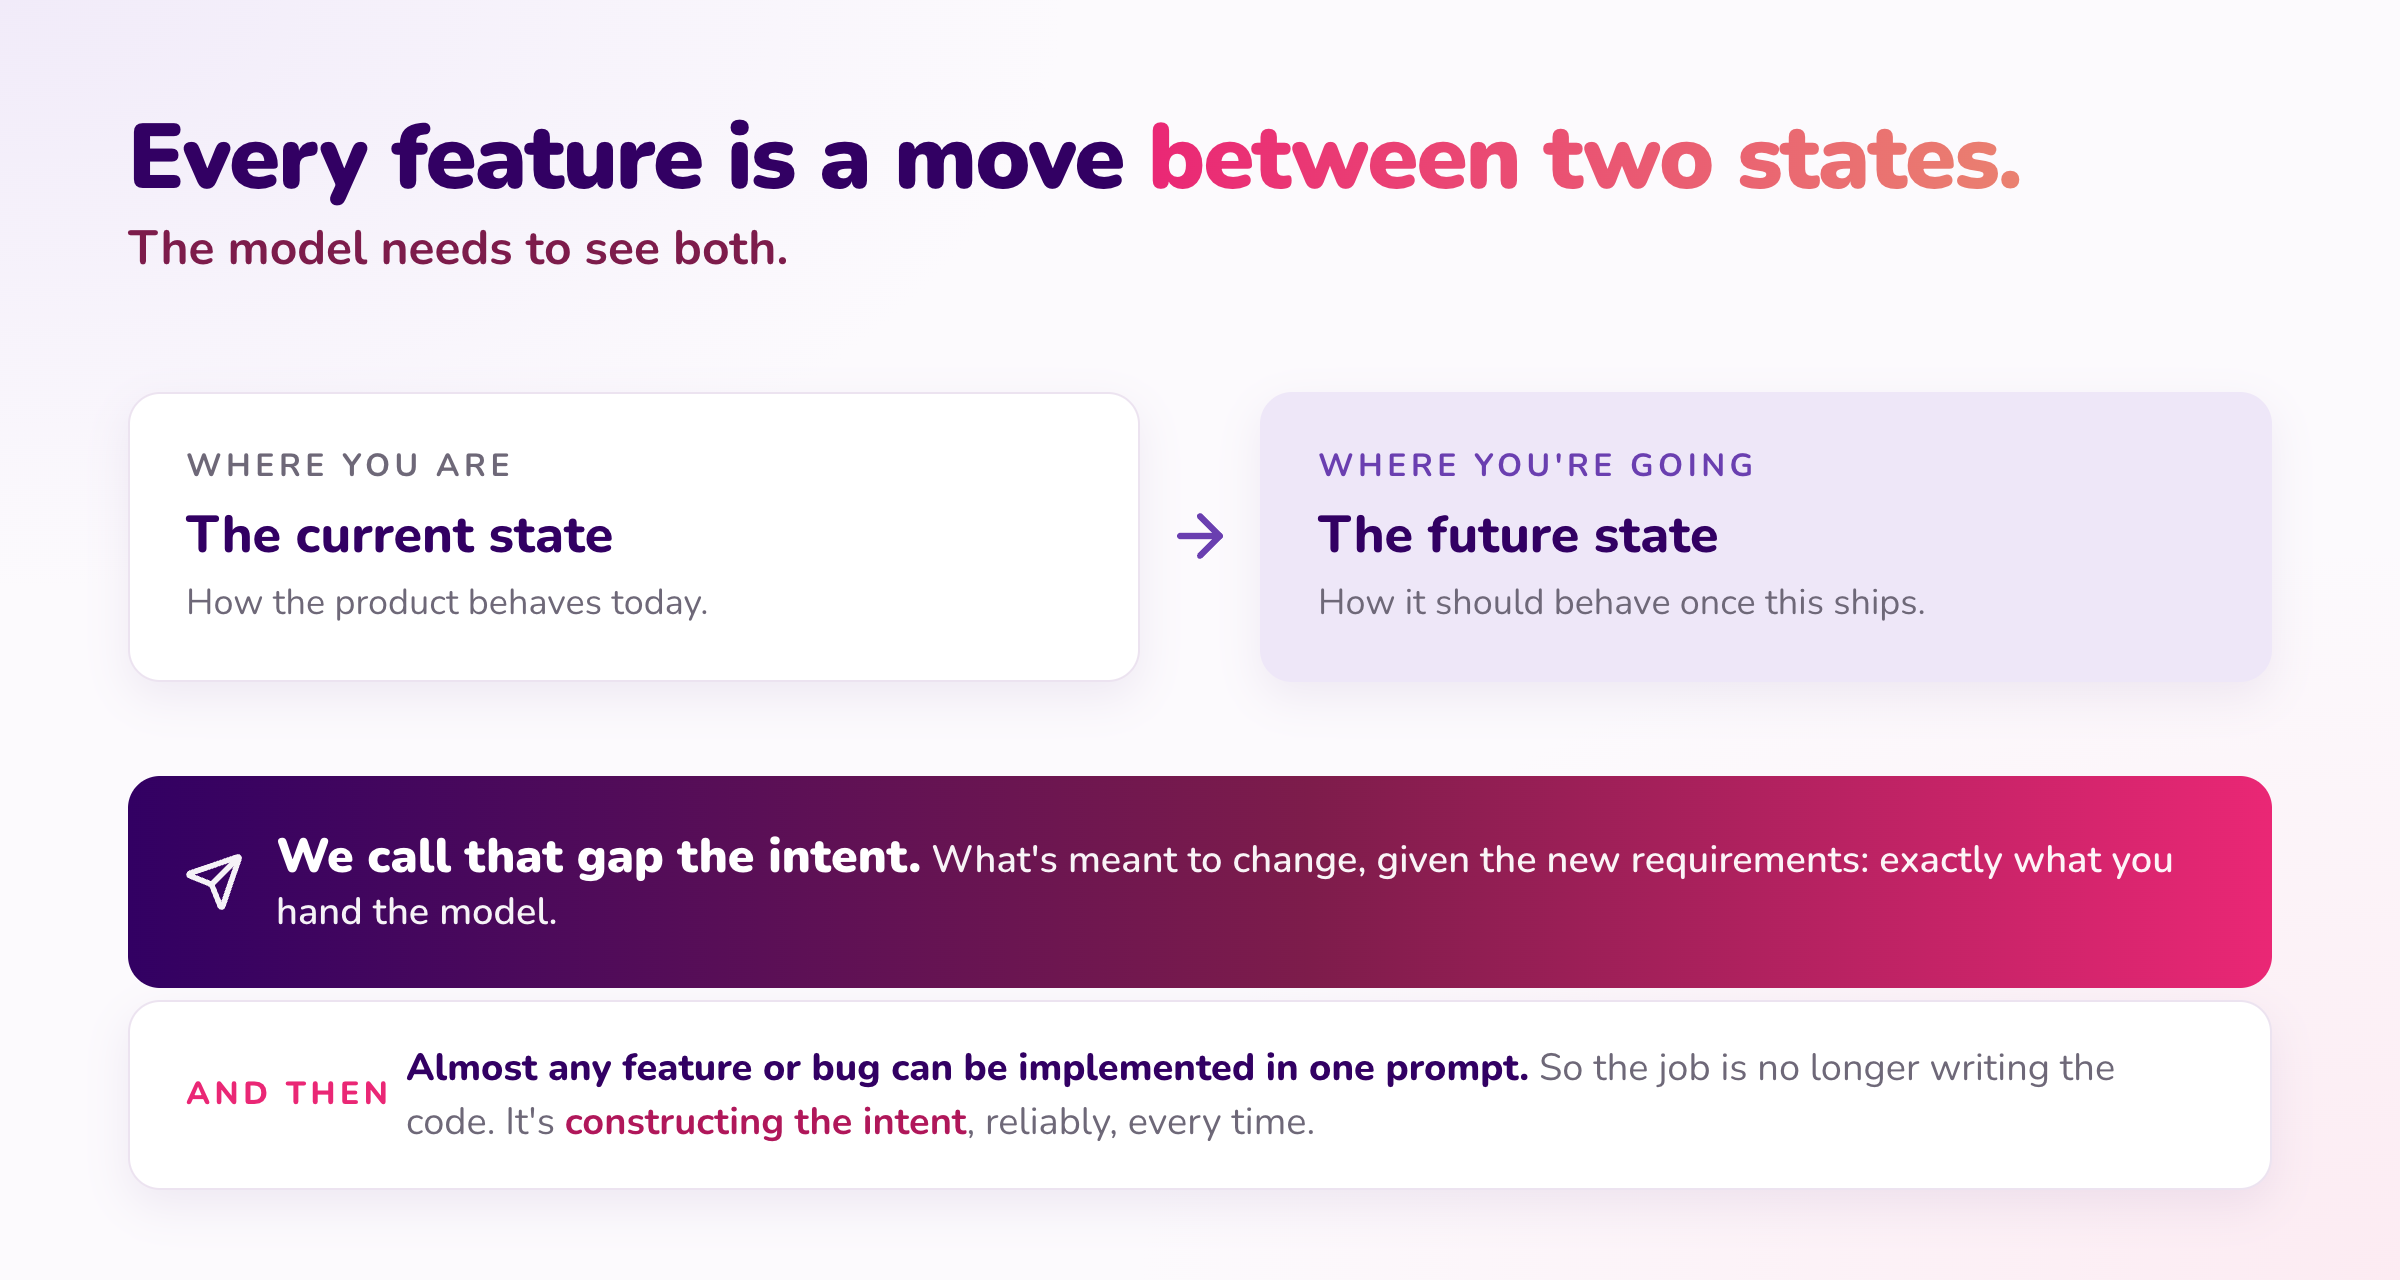
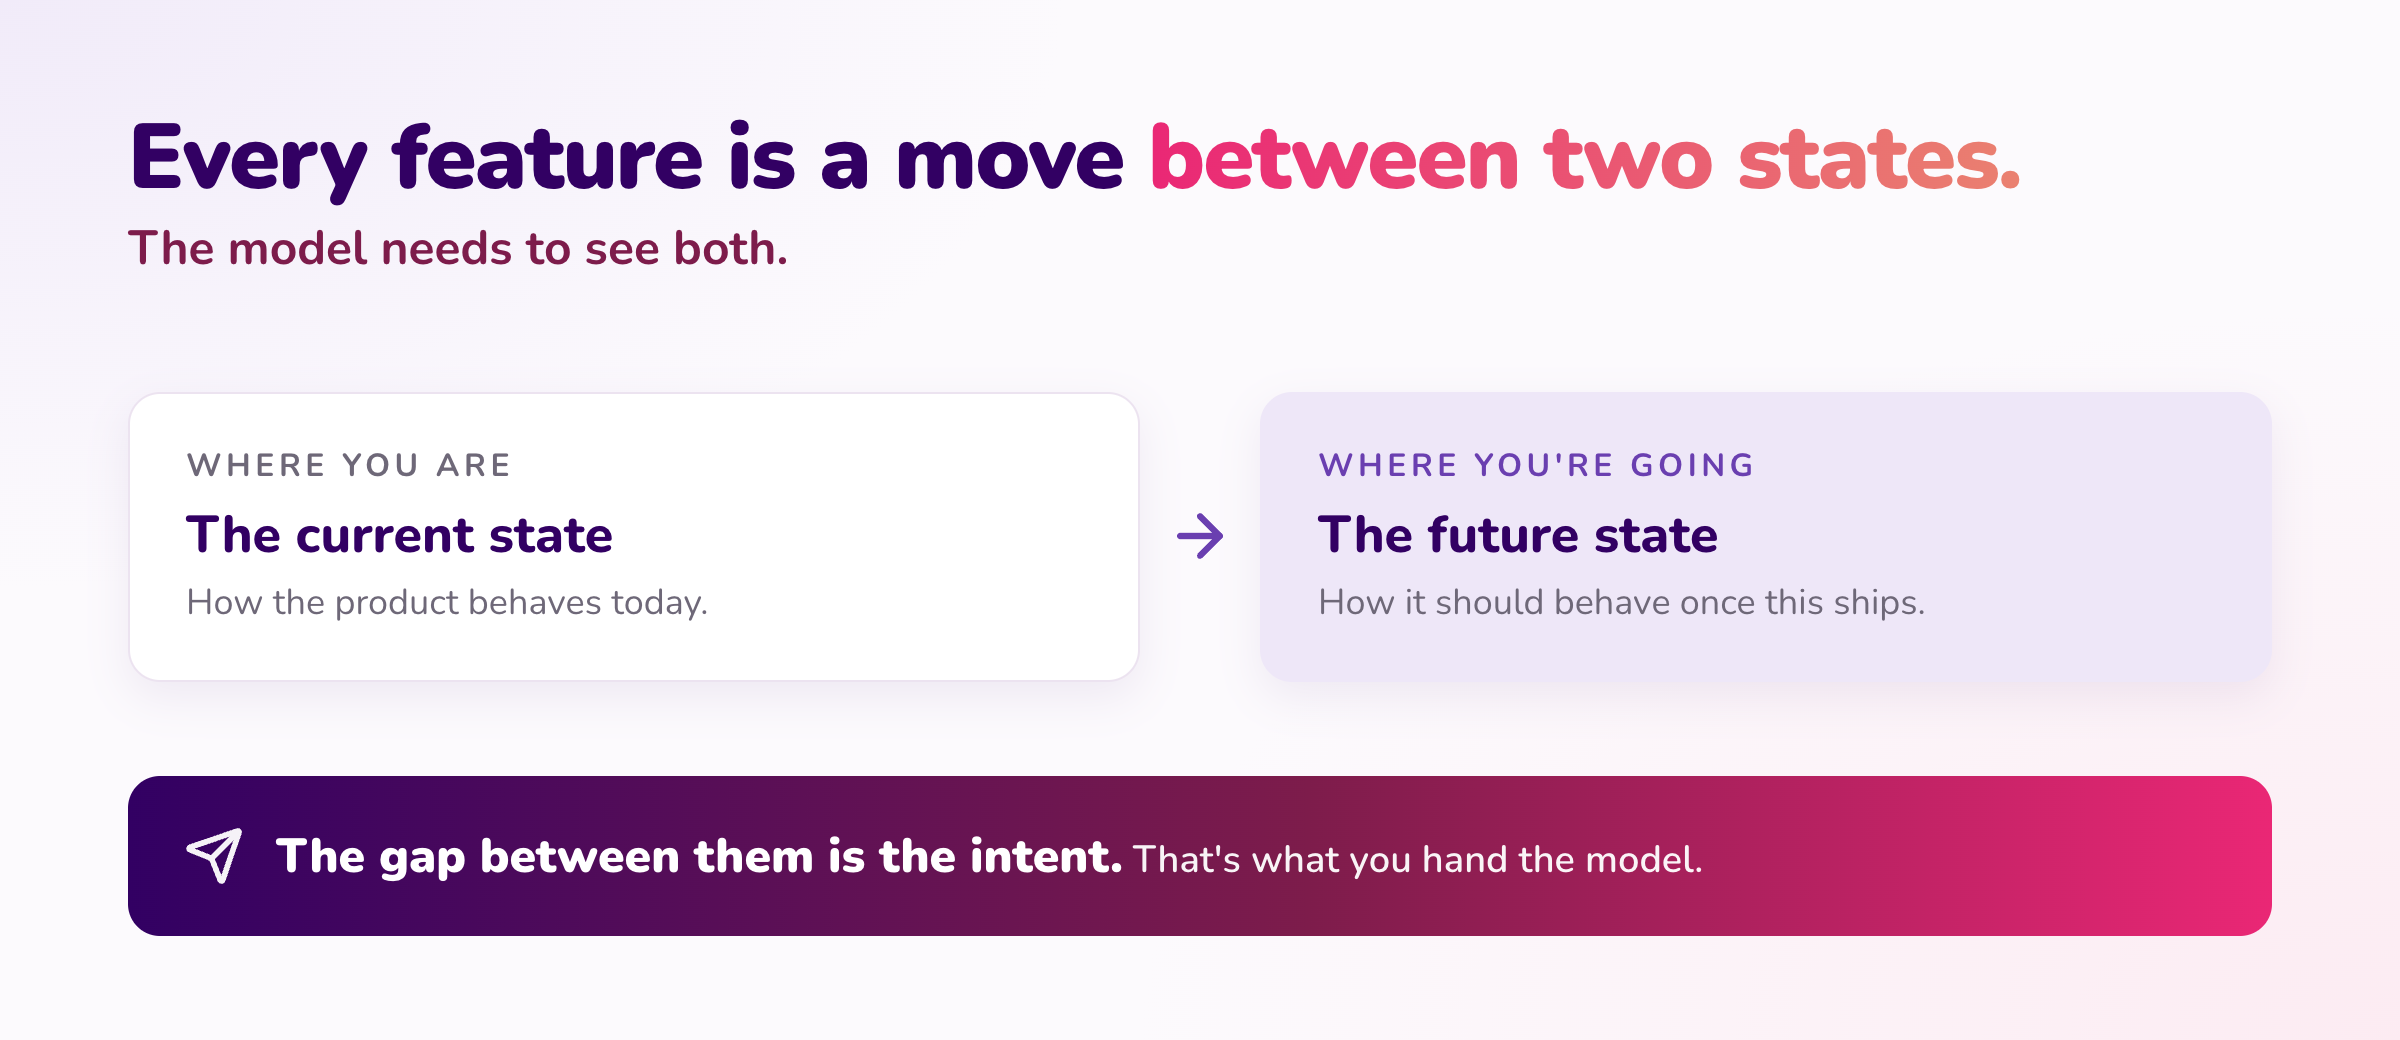
docs: lighter current/future-state diagram, point moved into text

Changed region(s): [[0.0312, 0.3385, 0.9688, 0.9231], [0.0312, 0.0923, 0.8438, 0.2769], [0.5312, 0.3385, 0.7188, 0.3692]]

diff --git a/image-src/ai-first-sdlc/current-future-state.html b/image-src/ai-first-sdlc/current-future-state.html
@@ -15,7 +15,7 @@
 .then p{font-size:19px;color:var(--muted);line-height:1.4}
 .then p b{color:var(--title);font-weight:800}
 .then p em{font-style:normal;color:var(--accent-deep);font-weight:700}
-</style></head><body data-size="1200x640"><div class="frame">
+</style></head><body data-size="1200x520"><div class="frame">
 <div class="title">Every feature is a move <span class="accent">between two states.</span></div>
 <div class="subtitle">The model needs to see both.</div>
 <div class="states">
@@ -23,6 +23,5 @@
  <div class="mid"><span class="icon info"><i data-lucide="arrow-right"></i></span></div>
  <div class="card st tint-info"><div class="eyebrow" style="color:var(--info)">Where you're going</div><div class="label">The future state</div><div class="note">How it should behave once this ships.</div></div>
 </div>
-<div class="gap"><span class="icon"><i data-lucide="send"></i></span><div><b>We call that gap the intent.</b> <span>What's meant to change, given the new requirements: exactly what you hand the model.</span></div></div>
-<div class="card then"><div class="eyebrow">And then</div><p><b>Almost any feature or bug can be implemented in one prompt.</b> So the job is no longer writing the code. It's <em>constructing the intent</em>, reliably, every time.</p></div>
+<div class="gap"><span class="icon"><i data-lucide="send"></i></span><div><b>The gap between them is the intent.</b> <span>That's what you hand the model.</span></div></div>
 </div></body></html>

diff --git a/src/data/blog/ai-first-sdlc.md b/src/data/blog/ai-first-sdlc.md
@@ -48,7 +48,9 @@ This is the key mental model behind the whole approach. Every feature moves the 
 
 ![Every feature is a move between two states: the current state and the future state. The gap between them is the intent, which is what you hand the model](../../assets/images/posts/ai-first-sdlc/current-future-state.png)
 
-We call the gap between them **the intent**: what's meant to change, given the new requirements. Almost any feature or bug can now be implemented in a single prompt. So the job is no longer writing the code. It's constructing the intent reliably, every time.
+We call the gap between them **the intent**: what's meant to change, given the new requirements. That's exactly what you hand the model.
+
+And then, **almost any feature or bug can be implemented in a single prompt.** So the job is no longer writing the code. It's *constructing the intent*, reliably, every time.
 
 ### You can't get the current state from the code
 
